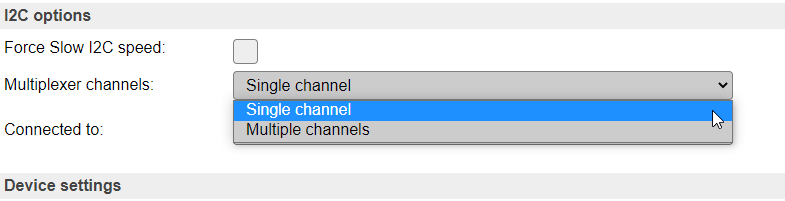
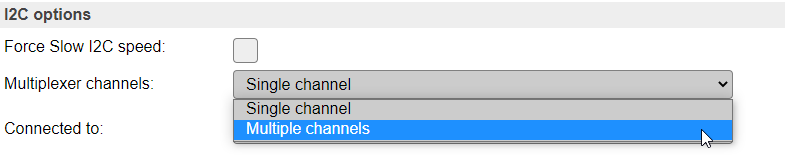
[I2C] Add TCA9543a multiplexer, updated docs

diff --git a/src/src/DataStructs/DeviceStruct.h b/src/src/DataStructs/DeviceStruct.h
@@ -17,9 +17,10 @@
 
 #ifdef FEATURE_I2CMULTIPLEXER
 #define I2C_MULTIPLEXER_NONE               -1  // None selected
-#define I2C_MULTIPLEXER_TCA9548A            0  // TCA9548a 8 channel I2C switch, addresses 0x70-0x77
-#define I2C_MULTIPLEXER_TCA9546A            1  // TCA9546a 4 channel I2C switch, addresses 0x70-0x77
-#define I2C_MULTIPLEXER_PCA9540             2  // PCA9540 2 channel I2C switch, address 0x70, different channel addressing
+#define I2C_MULTIPLEXER_TCA9548A            0  // TCA9548a 8 channel I2C switch, with reset, addresses 0x70-0x77
+#define I2C_MULTIPLEXER_TCA9546A            1  // TCA9546a or TCA9545a 4 channel I2C switch, with reset, addresses 0x70-0x77 (no interrupt support on TCA9545a)
+#define I2C_MULTIPLEXER_TCA9543A            2  // TCA9543a 2 channel I2C switch, with reset, addresses 0x70-0x73
+#define I2C_MULTIPLEXER_PCA9540             3  // PCA9540 2 channel I2C switch, no reset, address 0x70, different channel addressing
 #endif
 
 #define I2C_FLAGS_SLOW_SPEED                0  // Force slow speed when this flag is set

diff --git a/src/src/Helpers/Hardware.cpp b/src/src/Helpers/Hardware.cpp
@@ -178,7 +178,8 @@ void I2CMultiplexerReset() {
 byte I2CMultiplexerShiftBit(uint8_t i) {
   byte toWrite = 0;
   switch (Settings.I2C_Multiplexer_Type) {
-    case I2C_MULTIPLEXER_TCA9546A:  // TCA9546/8 addressing
+    case I2C_MULTIPLEXER_TCA9543A:  // TCA9543/6/8 addressing
+    case I2C_MULTIPLEXER_TCA9546A:
     case I2C_MULTIPLEXER_TCA9548A:
       toWrite = (1 << i);
       break;
@@ -247,6 +248,7 @@ byte I2CMultiplexerMaxChannels() {
     case I2C_MULTIPLEXER_TCA9548A:  channels = 8; break;  // TCA9548A has 8 channels
     case I2C_MULTIPLEXER_TCA9546A:  channels = 4; break;  // TCA9546A has 4 channels
     case I2C_MULTIPLEXER_PCA9540:   channels = 2; break;  // PCA9540 has 2 channels
+    case I2C_MULTIPLEXER_TCA9543A:  channels = 2; break;  // TCA9543A has 2 channels
   }
   return channels;
 }

diff --git a/docs/source/Hardware/Hardware.rst b/docs/source/Hardware/Hardware.rst
@@ -67,12 +67,17 @@ Possible use-cases for an I2C multiplexer are:
 There are a couple of I2C multiplexer chips available, currently there is support for:
 
 * TCA9548a (8 channels, multiple channel-connections, 8 I2C addresses, with reset)
-* TCA9546a (4 channels, multiple channel-connections, 8 I2C addresses, with reset)
+* TCA9546a (4 channels, multiple channel-connections, 8 I2C addresses, with reset, also TCA9545a can be used, but no support for the Interrupt function though)
+* TCA9543a (2 channels, multiple channel-connections, 4 I2C addresses, with reset)
 * PCA9540 (2 channels, fixed I2C address, no reset, experimental support)
 
-Both TCA9548a and TCA9546a support connecting multiple channels to the main I2C channel. This can be configured on the Device edit page for I2C devices, once the I2C Multiplexer configuration is enabled by selecting a multiplexer type and an I2C address for the multiplexer.
+The TCA9548a, TCA9546a and TCA9543a support connecting multiple channels to the main I2C channel. This can be configured on the Device edit page for I2C devices, once the I2C Multiplexer configuration is enabled by selecting a multiplexer type and an I2C address for the multiplexer.
 
-Also, both the TCA9548a and TCA9546a chips have a connection for a reset signal available. This allows the chip to be reset if it gets stuck by some 'less compatible' or 'badly behaving' devices. Once connected and configured, the multiplexer can be reset from the software, if desired or required. This feature is not yet used in any I2C device plugin.
+Also, the TCA9548a, TCA9546a and TCA9543a chips have a connection for a reset signal available. This allows the chip to be reset if it gets stuck by some 'less compatible' or 'badly behaving' devices. Once connected and configured, the multiplexer can be reset from the software, if desired or required. This feature is not yet used in any I2C device plugin.
+
+A TCA9543a board has the advantage of being quite a bit smaller than either TCA9546a or TCA9548a, while being digitally compatible. (But with less channels and only 4 I2C addresses).
+
+All these chips/boards can be found at Adafruit, Aliexpress, Banggood, EBay, etc.
 
 .. image:: Hardware_I2CMultiplexerNone.png
 
@@ -90,9 +95,9 @@ Device configuration
 
 If an I2C multiplexer is configured, every Device edit page for I2C devices will show extra options to select the channel the device is connected on.
 
-There is the default option of Single channel, or, when a TCA9548a or TCA9546a is configured, Multiple channels.
+There is the default option of Single channel, or, when a TCA9548a, TCA9546a or TCA9543a is configured, Multiple channels.
 
-*Example: A multiplexer is confgured, but the device is connected directly on the ESP board I2C channel:*
+*Example: A multiplexer is configured, but the device is connected directly on the ESP board I2C channel:*
 
 .. image:: Device_I2COptionsMultiplexerNone.png
 
@@ -112,7 +117,7 @@ NB: Only acceptable channels (0-7/0-3/0-1) will be available in the dropdown lis
 
 Above configuration results in channels 0, 4, 5, 6 and 7 being connected to the ESP board I2C bus when this sensor is active via I2C.
 
-For the 4 channel multiplexer, options 4-7 aren't shown.
+NB: Only acceptable channel checkboxes (0-7/0-3/0-1) will be shown, depending on the Multiplexer type configured.
 
 
 -------------
